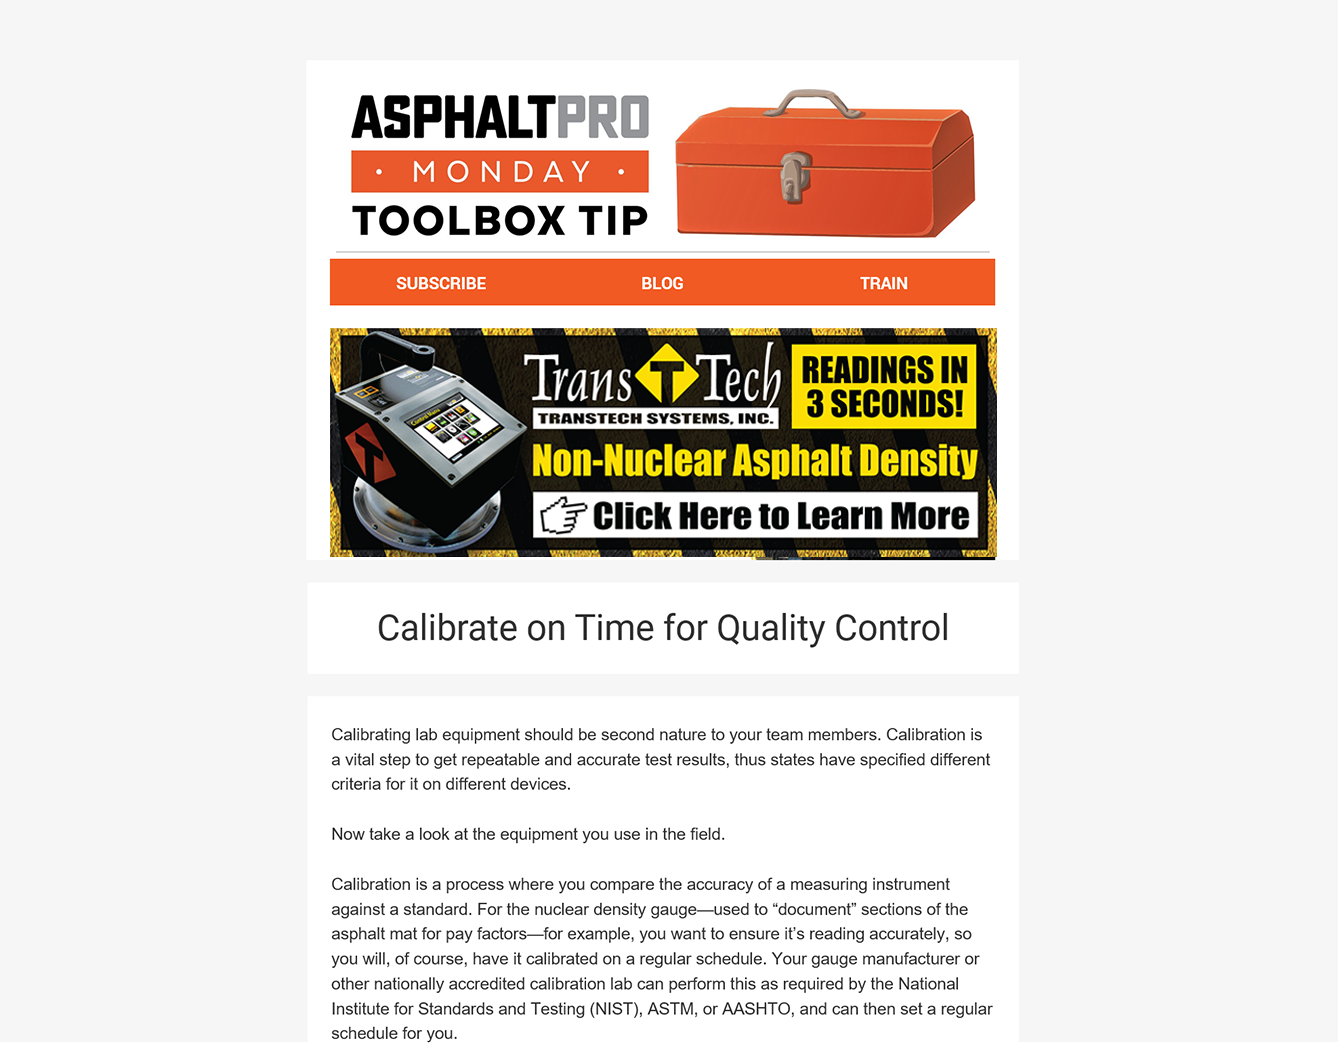
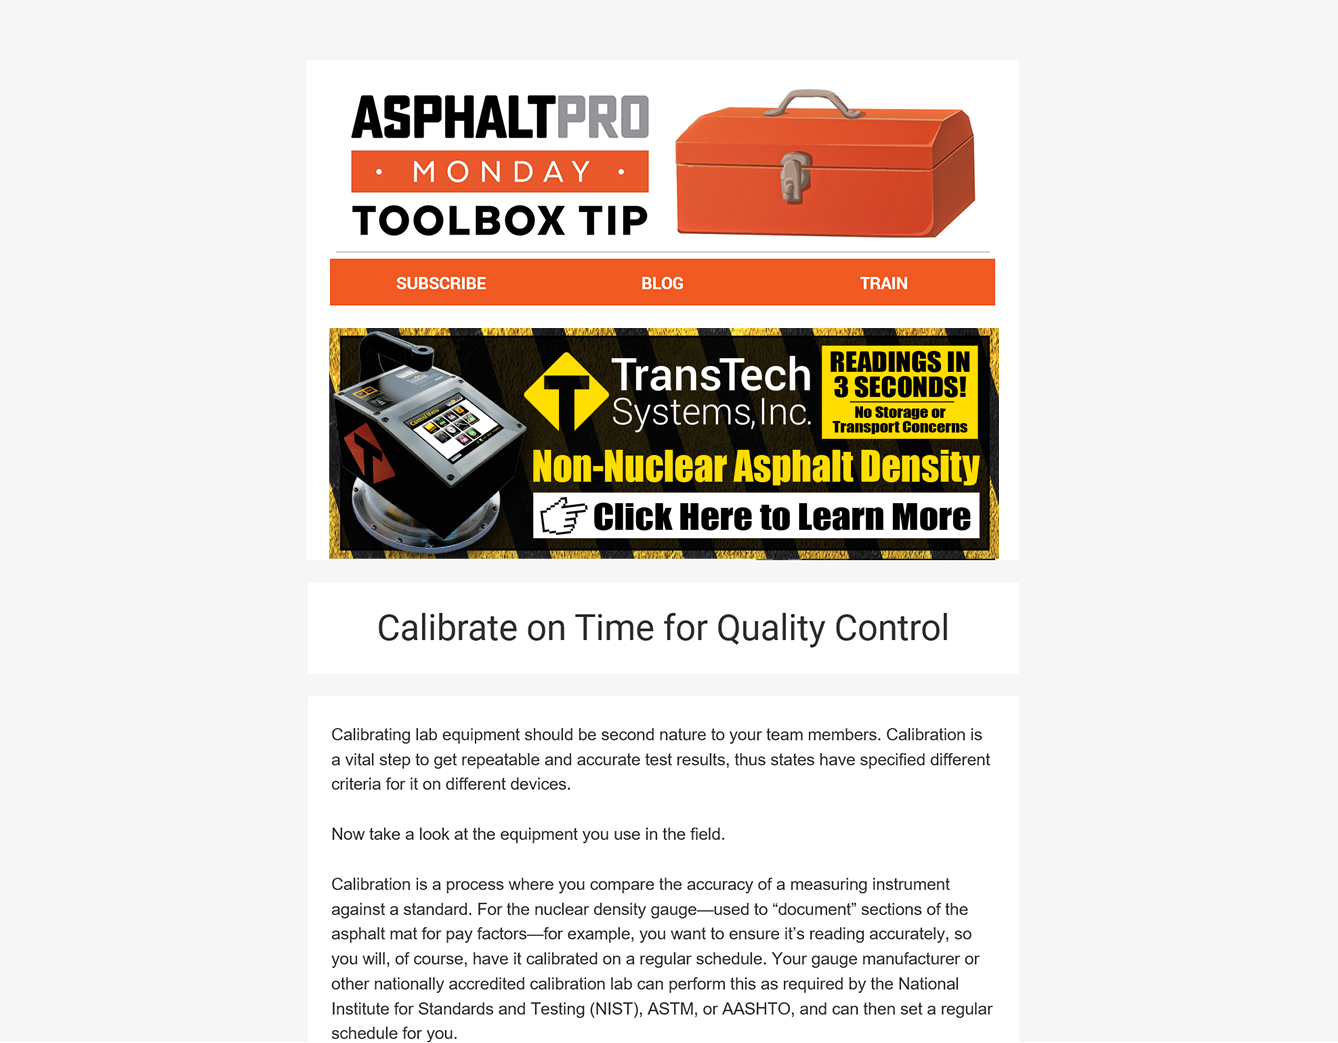
Added AP Toolbox tip design

Changed region(s): [[0.2451, 0.3068, 0.7661, 0.5523]]

diff --git a/app/page.js b/app/page.js
@@ -18,7 +18,7 @@ export default function Home() {
         </h5>
       </section>
 
-      <section className='mt-10 mb-20'>
+      <section className='mt-1 mb-20'>
         <h4 className='text-xl font-bold mb-5'>970 x 90 - Static</h4>
         <a
           href='http://www.transtechsys.com/products/digitalAC'
@@ -54,14 +54,28 @@ export default function Home() {
         </h5>
       </section>
 
-      <h2 className='text-5xl font-bold'>Asphalt Pro Email ToolTip</h2>
-
-      <section className='my-20'>
-        <h4 className='text-xl font-bold mb-5'>640 x 220 - Static</h4>
+      <section className='mt-1 mb-20'>
+        <h4 className='text-xl font-bold mb-5'>300 x 300 - Static</h4>
         <a
           href='http://www.transtechsys.com/products/digitalAP'
           target='_blank'
         >
+          <img src='/AP300x300Static.png' alt='300x300' className='w-[300px]' />
+        </a>
+        <h5 className='mt-3'>
+          <a href='/AP300x300StaticEx.png' target='_blank'>
+            Example Placement
+          </a>
+        </h5>
+      </section>
+
+      <h2 className='text-5xl font-bold'>Asphalt Pro Email ToolTip</h2>
+
+      <section className='my-20'>
+        <h4 className='text-xl font-bold mb-5'>
+          640 x 220 - Static TransTech Only
+        </h4>
+        <a href='http://www.transtechsys.com/products/pqi380' target='_blank'>
           <img
             src='/asphaltProWebBanner640x220.png'
             alt='640x220'
